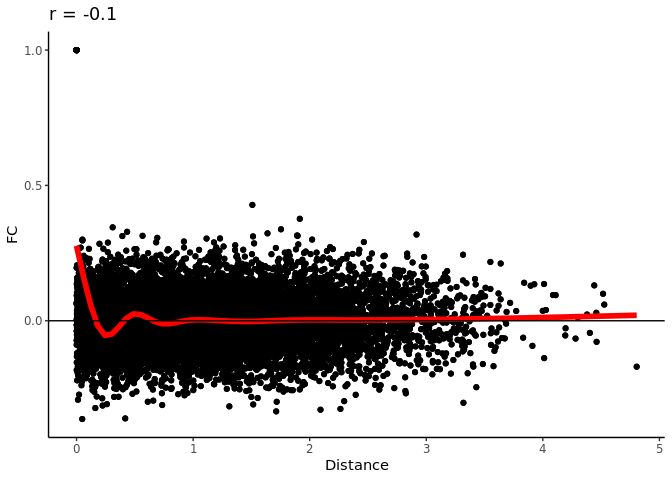
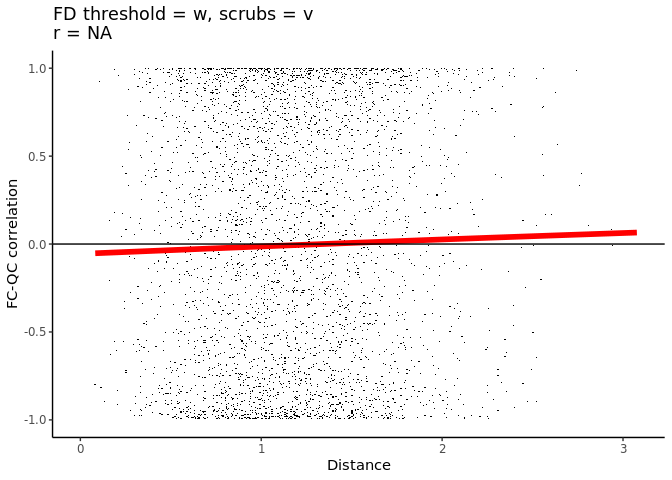
Correct the function to do FCQC scatter plot

diff --git a/notebooks/Testing-Visualization.md b/notebooks/Testing-Visualization.md
@@ -8,8 +8,8 @@ Ju-Chi Yu
 #### Fake data
 
 ``` r
-Dist_matrix <- list()
 FC_matrix <- list()
+Dist_matrix <- list()
 
 ## sub 1
 set.seed(2022)
@@ -30,55 +30,50 @@ dim.mat <- dim(FC_matrix[['sub2']])[1]
 distance <- diag(0, dim.mat)
 distance[upper.tri(distance)] <- abs(rnorm(dim.mat*(dim.mat-1)/2, 1, 1))
 Dist_matrix[['sub2']]  = distance + t(distance)
+
+## sub 3
+set.seed(2024)
+timeseries <- matrix(rnorm(10000), nrow = 100)
+FC_matrix[['sub3']] <- cor(timeseries)
+
+dim.mat <- dim(FC_matrix[['sub3']])[1]
+distance <- diag(0, dim.mat)
+distance[upper.tri(distance)] <- abs(rnorm(dim.mat*(dim.mat-1)/2, 1, 1))
+Dist_matrix[['sub3']]  = distance + t(distance)
+
+## arrays
+FC_Array <- array(unlist(FC_matrix), dim = c(dim(FC_matrix[[1]]), 3))
+Dist_Array <- array(unlist(Dist_matrix), dim = c(dim(Dist_matrix[[1]]), 3))
+
+## face mean FD
+
+meanFD_vec <- rnorm(3)
 ```
 
 <img src="Testing-Visualization_files/figure-gfm/unnamed-chunk-2-1.png" width="50%" /><img src="Testing-Visualization_files/figure-gfm/unnamed-chunk-2-2.png" width="50%" />
 
-#### Scatter plot with trend
+#### FC-QC vs. correlation
 
-``` r
-FClist.in.vec <- lapply(FC_matrix, as.vector)
-Distlist.in.vec <- lapply(Dist_matrix, as.vector)
-data2plot <- data.frame(FC_vec = unlist(FClist.in.vec),
-                        Dist_vec = unlist(Distlist.in.vec))
+The `plot_DistFCQC` can be used to plot the scatter plot of distances
+(diagonals included) and the correlations between mean frame
+displacements (FDs; as QC measures) and functional connectivity (FC).
+The aim of this figure is to help check if there is a bump when their
+euclidean distance in the 3D space is small. If so, it means that there
+is a motion confound in the functional connectivity data. If the motion
+effect is removed by scrubbing, you should see a line that is almost
+flat.
 
-data2plot %>%
-  ggplot(aes(x = Dist_vec, y = FC_vec)) +
-  geom_point() +
-  geom_smooth(se = FALSE, color = "red", lwd = 2) +
-  geom_hline(yintercept = 0) +
-  ggtitle(paste0("r = ", round(cor(data2plot$Dist_vec, data2plot$FC_vec), 2))) +
-  xlab("Distance") +
-  ylab("FC") +
-  theme(panel.grid = element_blank(),
-        panel.grid.major = element_blank(),
-        panel.background = element_blank(),
-        axis.line = element_line(colour = "black"))
-```
+##### How to use `plot_DistFCQC`
 
-    ## `geom_smooth()` using method = 'gam' and formula 'y ~ s(x, bs = "cs")'
+`plot_DistFCQC` takes two arguments:
 
-![](Testing-Visualization_files/figure-gfm/unnamed-chunk-3-1.png)<!-- -->
+-   `FC_Array`: An array of symmetric matrices (ROI x ROI x subject)
+    with functional connectivity.
 
-#### With the function
+-   `Dist_Array`: An array of symmetric distance matrices (ROI x ROI x
+    subject) that describes the distances between any two ROIs.
 
-The `plot_DistFC` can be used to plot the correlation plot between
-functional connectivity (FC) and distance (the diagonals of both
-matrices are not included). The aim of this figure is to help check if
-there is a bump when their euclidean distance in the 3D space is small.
-If so, it means that there is a motion effect in the functional
-connectivity data. If the motion effect is removed by scrubbing, you
-should see a line that is almost flat.
-
-##### How to use `plot_DistFC`
-
-`plot_DistFC` takes two arguments:
-
--   `FC_list`: A list of symmetric matrix (ROI x ROI) with functional
-    connectivity.
-
--   `Dist_list`: A list of symmetric distance matrix (ROI x ROI) that
-    describes the distances between any two ROIs.
+-   `meanFD_vec`: A vector of mean FD.
 
 There are also other arguments that you can specify:
 
@@ -95,15 +90,22 @@ There are also other arguments that you can specify:
 
 ``` r
 ## This is how you source the function
-source("../scripts/plot_DistFC.R")
+source("../scripts/plot_DistFCQC.R")
 
 ## and plot the results
-plot_DistFC(FC_list = FC_matrix,
-            Dist_list = Dist_matrix, 
+plot_DistFCQC(FC_Array = FC_Array,
+            Dist_Array = Dist_Array, 
+            meanFD_vec = meanFD_vec,
             color.line = "red", lwd.line = 2,
             title = "FD threshold = w, scrubs = v")
 ```
 
+    ## Warning in cor(meanFD_vec, t(FC_upper)): the standard deviation is zero
+
     ## `geom_smooth()` using method = 'gam' and formula 'y ~ s(x, bs = "cs")'
 
-![](Testing-Visualization_files/figure-gfm/unnamed-chunk-4-1.png)<!-- -->
+    ## Warning: Removed 100 rows containing non-finite values (stat_smooth).
+
+    ## Warning: Removed 100 rows containing missing values (geom_scattermore).
+
+![](Testing-Visualization_files/figure-gfm/unnamed-chunk-3-1.png)<!-- -->
